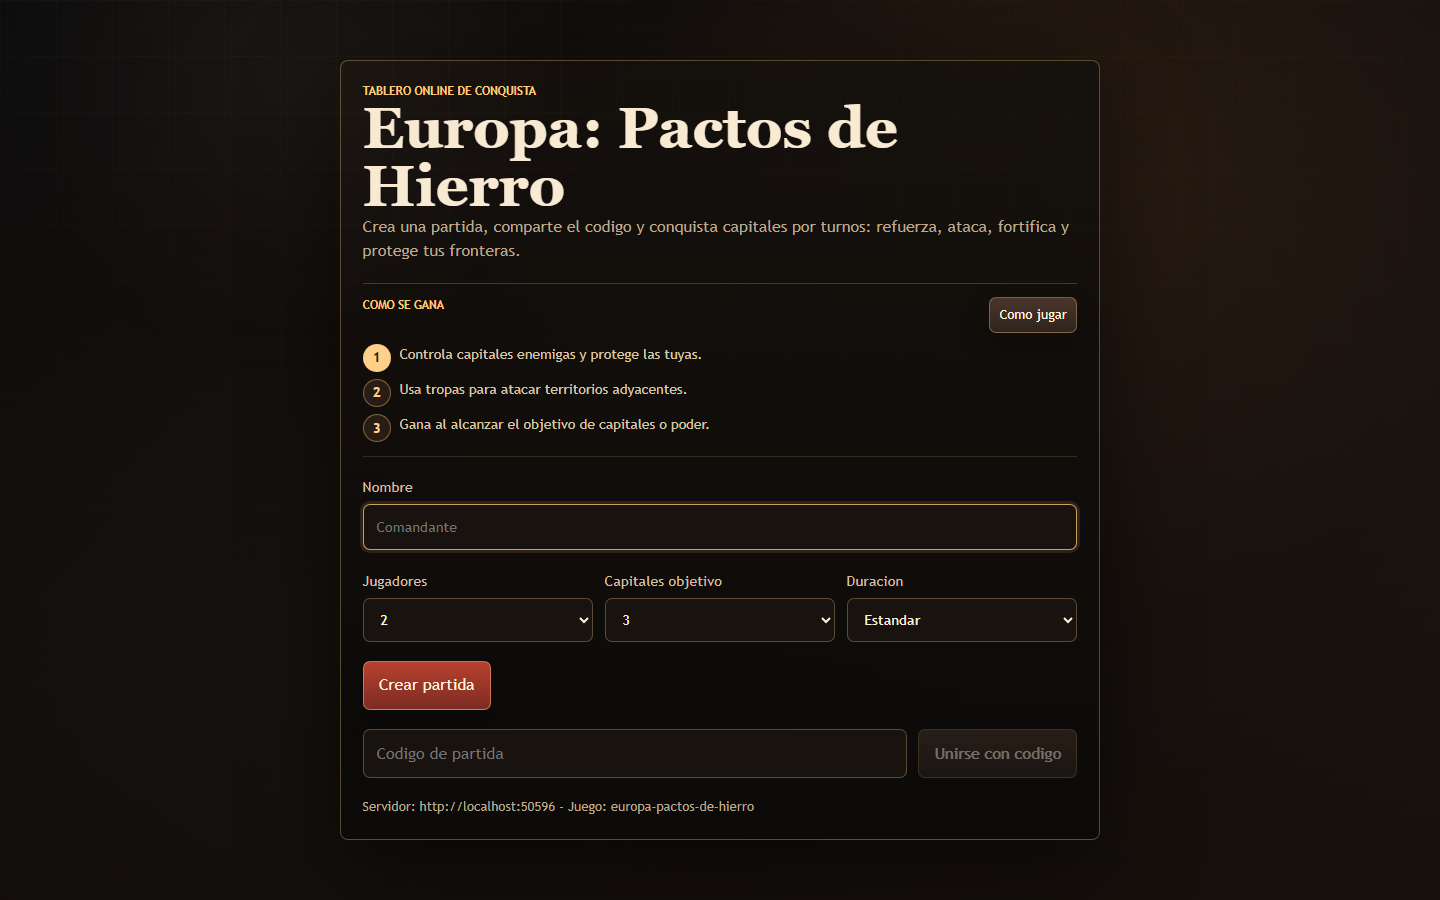
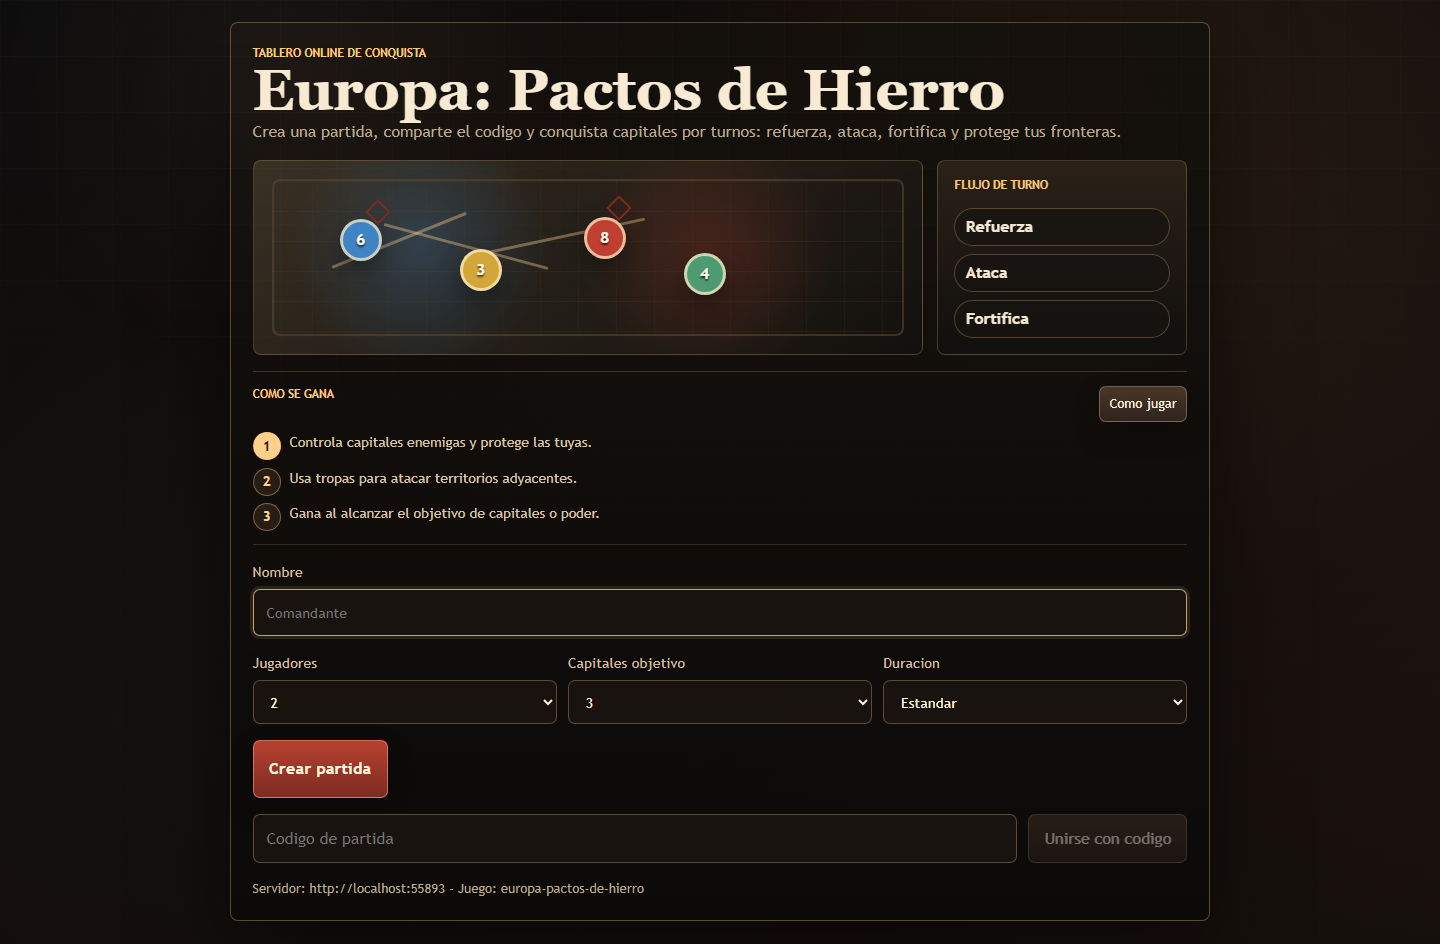
Polish UI screenshots after visual review

Changed region(s): [[0.1562, 0.0311, 0.8438, 0.7778], [0.1562, 0.7156, 0.6875, 0.9644], [0.625, 0.8089, 0.8125, 0.9022]]

diff --git a/frontend/src/styles.css b/frontend/src/styles.css
@@ -125,9 +125,9 @@ h2 {
 }
 
 .login-panel {
-  width: min(760px, 100%);
+  width: min(980px, 100%);
   display: grid;
-  gap: 1.2rem;
+  gap: 1rem;
   padding: 1.35rem;
   border: 1px solid rgba(238, 196, 128, 0.34);
   border-radius: 8px;
@@ -135,6 +135,145 @@ h2 {
     linear-gradient(180deg, rgba(20, 16, 13, 0.94), rgba(12, 11, 10, 0.96)),
     radial-gradient(circle at 85% 8%, rgba(162, 89, 46, 0.2), transparent 34%);
   box-shadow: 0 24px 90px rgba(0, 0, 0, 0.55);
+}
+
+.lobby-preview {
+  display: grid;
+  grid-template-columns: minmax(260px, 1fr) 250px;
+  gap: 0.9rem;
+  align-items: stretch;
+}
+
+.preview-board,
+.preview-brief {
+  position: relative;
+  min-height: 145px;
+  overflow: hidden;
+  border: 1px solid rgba(238, 196, 128, 0.24);
+  border-radius: 8px;
+  background:
+    radial-gradient(circle at 25% 45%, rgba(65, 132, 197, 0.28), transparent 25%),
+    radial-gradient(circle at 68% 48%, rgba(193, 63, 49, 0.24), transparent 27%),
+    linear-gradient(135deg, rgba(207, 184, 132, 0.18), rgba(20, 18, 15, 0.68));
+}
+
+.preview-board::before {
+  position: absolute;
+  inset: 18px;
+  content: "";
+  border: 2px solid rgba(95, 70, 48, 0.58);
+  border-radius: 8px;
+  background:
+    linear-gradient(rgba(97, 76, 47, 0.18) 1px, transparent 1px),
+    linear-gradient(90deg, rgba(97, 76, 47, 0.12) 1px, transparent 1px);
+  background-size: 38px 30px;
+}
+
+.preview-route {
+  position: absolute;
+  height: 3px;
+  border-radius: 999px;
+  background: rgba(255, 214, 146, 0.38);
+  transform-origin: left center;
+}
+
+.route-a {
+  left: 130px;
+  top: 62px;
+  width: 170px;
+  transform: rotate(15deg);
+}
+
+.route-b {
+  left: 210px;
+  top: 95px;
+  width: 185px;
+  transform: rotate(-12deg);
+}
+
+.route-c {
+  left: 78px;
+  top: 105px;
+  width: 145px;
+  transform: rotate(-22deg);
+}
+
+.preview-token {
+  position: absolute;
+  display: grid;
+  place-items: center;
+  width: 42px;
+  height: 42px;
+  border: 3px solid rgba(255, 239, 200, 0.72);
+  border-radius: 999px;
+  color: #fff6e6;
+  font-weight: 900;
+  text-shadow: 0 2px 2px rgba(0, 0, 0, 0.72);
+  box-shadow: 0 10px 24px rgba(0, 0, 0, 0.34);
+}
+
+.preview-token.blue {
+  left: 86px;
+  top: 58px;
+  background: #3f84c5;
+}
+
+.preview-token.red {
+  left: 330px;
+  top: 56px;
+  background: #c13f31;
+}
+
+.preview-token.gold {
+  left: 206px;
+  top: 88px;
+  background: #d2a638;
+}
+
+.preview-token.green {
+  left: 430px;
+  top: 92px;
+  background: #4e9b72;
+}
+
+.preview-capital {
+  position: absolute;
+  width: 18px;
+  height: 18px;
+  border: 2px solid #7d2b22;
+  transform: rotate(45deg);
+}
+
+.capital-a {
+  left: 115px;
+  top: 42px;
+}
+
+.capital-b {
+  left: 356px;
+  top: 38px;
+}
+
+.preview-brief {
+  display: grid;
+  align-content: center;
+  gap: 0.85rem;
+  padding: 1rem;
+  background: linear-gradient(180deg, rgba(44, 34, 25, 0.96), rgba(17, 16, 14, 0.96));
+}
+
+.preview-steps {
+  display: grid;
+  gap: 0.45rem;
+}
+
+.preview-steps span {
+  border: 1px solid rgba(255, 199, 120, 0.28);
+  border-radius: 999px;
+  padding: 0.4rem 0.65rem;
+  color: #f8ead3;
+  background: rgba(22, 19, 16, 0.72);
+  font-weight: 800;
 }
 
 .subtitle,
@@ -188,6 +327,12 @@ h2 {
   grid-template-columns: repeat(3, 1fr);
 }
 
+.lobby-actions .primary {
+  min-height: 58px;
+  font-size: 1.03rem;
+  font-weight: 800;
+}
+
 .primary {
   background: linear-gradient(180deg, #b74130, #7d2b22);
   border-color: rgba(255, 159, 116, 0.58);
@@ -208,10 +353,12 @@ h2 {
 .game-shell {
   position: relative;
   min-height: 100vh;
-  padding: 1.15rem;
+  height: 100dvh;
+  padding: 0.85rem;
   display: grid;
   grid-template-rows: auto 1fr;
-  gap: 1rem;
+  gap: 0.75rem;
+  overflow: hidden;
   background:
     linear-gradient(90deg, rgba(4, 8, 12, 0.72), rgba(28, 17, 13, 0.38)),
     radial-gradient(circle at 76% 14%, rgba(195, 99, 49, 0.18), transparent 30%);
@@ -222,7 +369,7 @@ h2 {
   justify-content: space-between;
   gap: 1rem;
   align-items: center;
-  padding: 0.45rem 0.55rem;
+  padding: 0.35rem 0.55rem;
   border: 1px solid rgba(229, 181, 117, 0.2);
   border-radius: 8px;
   background: linear-gradient(90deg, rgba(13, 17, 20, 0.88), rgba(39, 28, 22, 0.74));
@@ -349,7 +496,7 @@ h2 {
 .side-panel {
   display: grid;
   align-content: start;
-  gap: 0.85rem;
+  gap: 0.7rem;
   min-width: 0;
   max-height: calc(100vh - 104px);
   overflow: auto;
@@ -358,8 +505,8 @@ h2 {
 
 .panel-block {
   display: grid;
-  gap: 0.7rem;
-  padding: 0.9rem;
+  gap: 0.55rem;
+  padding: 0.78rem;
   border: 1px solid rgba(222, 180, 119, 0.22);
   border-radius: 8px;
   background: linear-gradient(180deg, rgba(28, 23, 19, 0.94), rgba(14, 15, 15, 0.94));
@@ -416,7 +563,7 @@ h2 {
 .territory-stack {
   display: grid;
   grid-template-columns: 1fr 1fr;
-  gap: 0.85rem;
+  gap: 0.65rem;
 }
 
 .territory-card.active {
@@ -748,6 +895,14 @@ h2 {
 
   .map-frame {
     min-height: 460px;
+  }
+
+  .lobby-preview {
+    grid-template-columns: 1fr;
+  }
+
+  .preview-brief {
+    min-height: auto;
   }
 
   .tutorial-grid {

diff --git a/frontend/src/ui/App.tsx b/frontend/src/ui/App.tsx
@@ -84,6 +84,28 @@ export function App({ serverUrl, GameClient }: AppProps) {
           <p className="subtitle">Crea una partida, comparte el codigo y conquista capitales por turnos: refuerza, ataca, fortifica y protege tus fronteras.</p>
         </div>
 
+        <section className="lobby-preview" aria-label="Vista previa del tablero">
+          <div className="preview-board" aria-hidden="true">
+            <span className="preview-route route-a" />
+            <span className="preview-route route-b" />
+            <span className="preview-route route-c" />
+            <span className="preview-token blue">6</span>
+            <span className="preview-token red">8</span>
+            <span className="preview-token gold">3</span>
+            <span className="preview-token green">4</span>
+            <span className="preview-capital capital-a" />
+            <span className="preview-capital capital-b" />
+          </div>
+          <div className="preview-brief">
+            <p className="eyebrow">Flujo de turno</p>
+            <div className="preview-steps">
+              <span>Refuerza</span>
+              <span>Ataca</span>
+              <span>Fortifica</span>
+            </div>
+          </div>
+        </section>
+
         <section className="lobby-guide">
           <div className="split">
             <p className="eyebrow">Como se gana</p>

diff --git a/frontend/src/ui/GameBoard.tsx b/frontend/src/ui/GameBoard.tsx
@@ -293,10 +293,10 @@ export function GameBoard({ G, ctx, moves, playerID, matchID, isActive, syncStat
               <input type="number" min={1} max={99} value={amount} onChange={(event) => setAmount(Number(event.target.value))} />
             </label>
             <div className="action-row">{renderAction()}</div>
-            <p className={actionHint.ok ? "hint ok" : "hint"}>{actionHint.message}</p>
             <button className="primary wide" aria-label="Terminar fase" disabled={!isActive} onClick={() => moves.endPhase()}>
               Pasar a {phaseLabels[nextPhaseName(G.phase)]}
             </button>
+            <p className={actionHint.ok ? "hint ok" : "hint"}>{actionHint.message}</p>
           </section>
 
           <section className="panel-block objective-card">